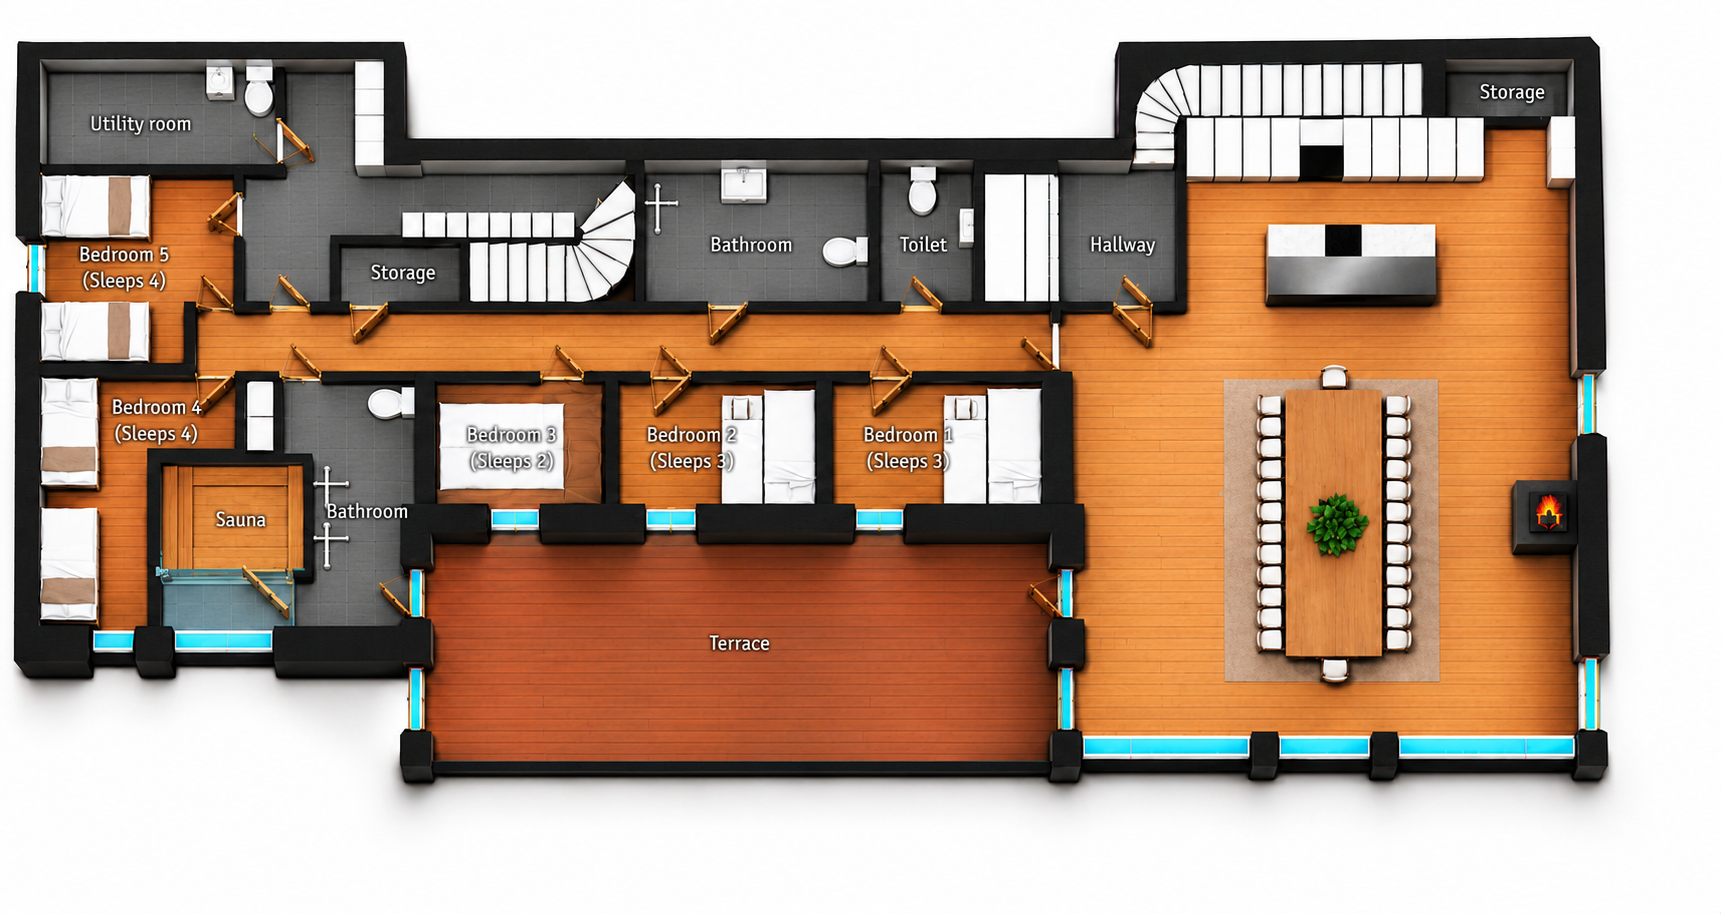
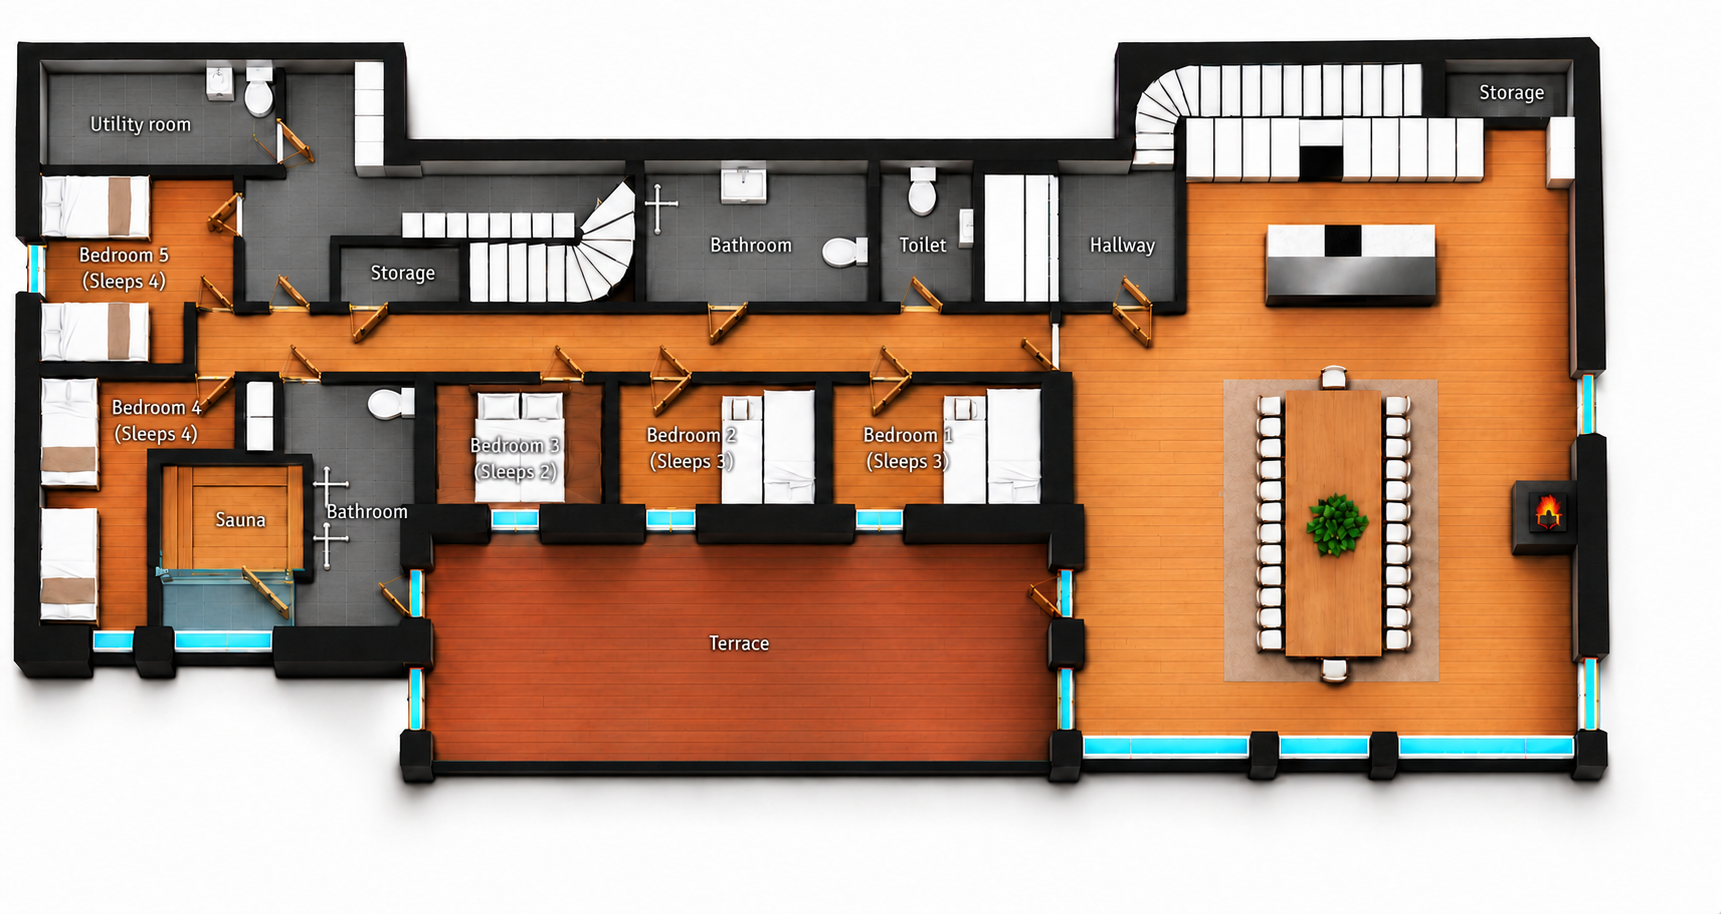
Orient bedroom three bed with pillows toward corridor wall

diff --git a/docs/floor-plans.md b/docs/floor-plans.md
@@ -1,5 +1,22 @@
 # Three floor plans
 
+## Bedroom 3 bed direction, 30 October 2026
+
+Owner requested the direction shown in codex-clipboard-3fa54112-30ff-46ea-adf9-386ac1a33860.png: two pillows at north/top wall below corridor and foot toward bottom window. Updated only Bedroom3 double bed in both language assets, retaining two sleeping places and restored sharp style. Built-in imagegen edit mode. Source files: public/images/floor-plan-lower.png and floor-plan-lower-en.png at commit6e6d2c9; annotation source C:/Users/kalaj/AppData/Local/Temp/codex-clipboard-3fa54112-30ff-46ea-adf9-386ac1a33860.png.
+
+Selected outputs under C:/Users/kalaj/.codex/generated_images/01a0dca7-09e8-7432-9c4d-03c13b499591/: exec-1352fa97-0f4a-412e-a7b1-48f279513650.png(Norwegian) and exec-fe2cf93a-08f7-4745-afd0-ca5354150d3f.png(English), copied to matching public/images/floor-plan-lower[-en].png. Both complete outputs visually inspected.
+
+### rotateBedNb
+```text
+Use case: precise-object-edit. IMAGE1 full lower-floor rendering is the EDIT TARGET. IMAGE2 is owner's annotated reference indicating NEW DIRECTION of Bedroom3 double bed: TWO pillows next to each other at TOP/NORTH wall beneath corridor, bed extends DOWN toward bottom window. Change ONLY bed in Bedroom3, reorient it north-south with headboard/two pillows at top and foot at bottom, matching red drawing. Keep same approximate bed area and modest size: double bed for TWO people, not oversized, fit fully within room with floor clearance, no wall/window/door changes. Preserve original white bedding design and current crisp sharp detailed rendering quality. Keep room label and sleepingcount2 exactly, same font/size. Red marks are instructions, must NOT appear in output. Preserve ALL other content exactly: other4bedrooms and bed dimensions, 26diningchairs, table,kitchen,island,stairs,slimwalls,3frontwindowgroups/currentwidths,saunaglassfront,remainingdoors,2previouslyremoveddoorsstillabsent,terrace,allotherlabels,materials,fullcanvas/resolution. No crop,zoom,globalresize or other edits. Keep ALL NORWEGIAN text verbatim. Bedroom3 label remains 'Soverom 3' and '(2 soveplasser)' on two lines.
+```
+
+### rotateBedEn
+```text
+Use case: precise-object-edit. IMAGE1 full lower-floor rendering is the EDIT TARGET. IMAGE2 is owner's annotated reference indicating NEW DIRECTION of Bedroom3 double bed: TWO pillows next to each other at TOP/NORTH wall beneath corridor, bed extends DOWN toward bottom window. Change ONLY bed in Bedroom3, reorient it north-south with headboard/two pillows at top and foot at bottom, matching red drawing. Keep same approximate bed area and modest size: double bed for TWO people, not oversized, fit fully within room with floor clearance, no wall/window/door changes. Preserve original white bedding design and current crisp sharp detailed rendering quality. Keep room label and sleepingcount2 exactly, same font/size. Red marks are instructions, must NOT appear in output. Preserve ALL other content exactly: other4bedrooms and bed dimensions, 26diningchairs, table,kitchen,island,stairs,slimwalls,3frontwindowgroups/currentwidths,saunaglassfront,remainingdoors,2previouslyremoveddoorsstillabsent,terrace,allotherlabels,materials,fullcanvas/resolution. No crop,zoom,globalresize or other edits. Keep ALL ENGLISH text verbatim. Bedroom3 label remains 'Bedroom 3' and '(Sleeps 2)' on two lines. Do not copy Norwegian labels from reference.
+```
+
+
 ## Lower-floor clarity restoration, 30 October 2026
 
 Owner requested a clearer final lower-floor drawing. Built-in imagegen restoration produced sharper outlines, readable labels, tile grout, wood grain and furniture details, retaining the current layout, beds, windows, sauna glass and26chairs. Requested3442x1828 in prompt; tool returned1721x914 for both, so no resolution increase is claimed. Files copied without additional resizing/recompression. Main and loft unchanged.
